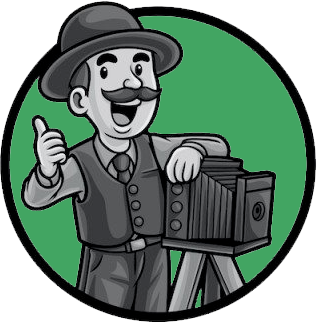
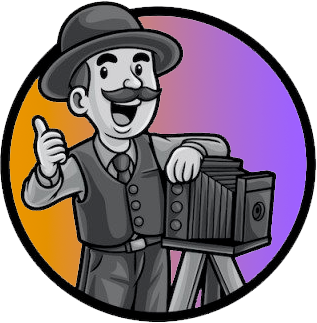
Amelioration UI

diff --git a/front-end/css/style.css b/front-end/css/style.css
@@ -14,7 +14,7 @@
 body {
     width     : 100%;
     box-sizing: border-box;
-    background: #333;
+    background: #F4F6F7;
 }
 
 nav {
@@ -72,25 +72,25 @@ footer {
 }
 
 .navLinks {
-    display         : inline-block;
-    color           : #333;
-    font-weight     : 400;
-    margin-left     : 4rem;
-    padding         : 1rem;
-    background-color: #3F9A59;
-    border-radius   : 2.8rem;
-    color           : #FFF;
-    box-shadow      : rgba(0, 0, 0, 0.35) 0px 5px 15px;
+    display      : inline-block;
+    color        : #333;
+    font-weight  : 400;
+    margin-left  : 4rem;
+    padding      : 1rem;
+    background   : rgb(230, 138, 8);
+    background   : linear-gradient(90deg, rgba(230, 138, 8, 1) 0%, rgba(143, 91, 254, 1) 100%);
+    border-radius: 2.8rem;
+    color        : #FFF;
+    box-shadow   : rgba(0, 0, 0, 0.35) 0px 5px 15px;
 
 }
 
 .navLinks:hover {
-    padding         : 1rem;
-    background-color: #017143;
-    border-radius   : 2.8rem;
-    color           : #FFF;
-    transition      : transform .2s;
-    transform       : scale(1.1)
+    padding      : 1rem;
+    border-radius: 2.8rem;
+    color        : #FFF;
+    transition   : transform .2s;
+    transform    : scale(1.1)
 }
 
 /*HEADER*/
@@ -99,7 +99,7 @@ footer {
 /* CARD*/
 
 .mainContent {
-    padding              : 10em 20em 10em 20em;
+    padding              : 8em 20em 20em 20em;
     display              : grid;
     grid-template-columns: 1fr 1fr 1fr;
     grid-template-rows   : 1fr 1fr;
@@ -110,14 +110,15 @@ footer {
 }
 
 .camArticle {
-    position        : relative;
-    width           : 100%;
-    height          : 100%;
-    border-radius   : 3rem;
-    background-color: #3F9A59;
-    margin-bottom   : 3rem;
-    padding         : 1rem;
-    box-shadow      : rgba(0, 0, 0, 0.35) 0px 5px 15px;
+    position     : relative;
+    width        : 100%;
+    height       : 100%;
+    border-radius: 3rem;
+    background   : rgb(230, 138, 8);
+    background   : linear-gradient(90deg, rgba(230, 138, 8, 1) 0%, rgba(143, 91, 254, 1) 100%);
+    margin-bottom: 3rem;
+    padding      : 1rem;
+    box-shadow   : rgba(0, 0, 0, 0.35) 0px 5px 15px;
 }
 
 .cardContent {
@@ -194,10 +195,11 @@ footer {
 }
 
 .confirm {
-    background-color: #f3e9f1;
-    margin          : 2%;
-    padding         : 2%;
-    border-radius   : 1rem;
+    background   : rgb(230, 138, 8);
+    background   : linear-gradient(90deg, rgba(230, 138, 8, 1) 0%, rgba(143, 91, 254, 1) 100%);
+    margin       : 2%;
+    padding      : 2%;
+    border-radius: 1rem;
 }
 
 /* FORM */
@@ -216,7 +218,8 @@ footer {
 }
 
 .bgc-element {
-    background-color: #3F9A59;
+    background: rgb(230, 138, 8);
+    background: linear-gradient(90deg, rgba(230, 138, 8, 1) 0%, rgba(143, 91, 254, 1) 100%);
 }
 
 .bgc-sizing {

diff --git a/front-end/html/cart.html b/front-end/html/cart.html
@@ -20,7 +20,7 @@
 <body>
     <header class="header">
         <a class="logo" href="../index.html"><img src="../img/orinocam.png" alt="Orinoco Logo"></a>
-        <h1 class="mainTitle">OrinoCam</h1>
+        <h1 class="mainTitle">OrinoCam®</h1>
         <nav class="navBar">
             <a class="navLinks" href="index.html">Accueil</a>
             <a class="navLinks" href="html/cart.html">Votre Panier</a>
@@ -72,7 +72,7 @@
     </main>
 
     <footer class="bgc-element bgc-sizing">
-        <p class="copyright">OrinoCorp.</p>
+        <p class="copyright">OrinoCam®, un site du groupe Orinoco®.</p>
     </footer>
     <script src="https://code.jquery.com/jquery-3.5.1.slim.min.js"
         integrity="sha384-DfXdz2htPH0lsSSs5nCTpuj/zy4C+OGpamoFVy38MVBnE+IbbVYUew+OrCXaRkfj"

diff --git a/front-end/index.html b/front-end/index.html
@@ -18,7 +18,7 @@
 <body>
     <header class="header">
         <a class="logo" href="index.html"><img src="img/orinocam.png" alt="Orinoco Logo"></a>
-        <h1 class="mainTitle">OrinoCam</h1>
+        <h1 class="mainTitle">OrinoCam®</h1>
         <nav class="navBar">
             <a class="navLinks" href="index.html">Accueil</a>
             <a class="navLinks" href="html/cart.html">Votre Panier</a>
@@ -38,7 +38,7 @@
     </main>
 
     <footer class="bgc-element bgc-sizing">
-        <p class="copyright">OrinoCam, un site du groupe Orinoco.</p>
+        <p class="copyright">OrinoCam®, un site du groupe Orinoco®.</p>
     </footer>
 
     <script src="js/view.js"></script>

diff --git a/front-end/html/confirm.html b/front-end/html/confirm.html
@@ -18,7 +18,7 @@
 <body>
     <header class="header">
         <a class="logo" href="../index.html"><img src="../img/orinocam.png" alt="Orinoco Logo"></a>
-        <h1 class="mainTitle">OrinoCam</h1>
+        <h1 class="mainTitle">OrinoCam®</h1>
         <nav class="navBar">
             <a class="navLinks" href="index.html">Accueil</a>
             <a class="navLinks" href="html/cart.html">Votre Panier</a>
@@ -38,7 +38,7 @@
     </main>
     
     <footer class="bgc-element bgc-sizing">
-        <p class="copyright">OrinoCorp.</p>
+        <p class="copyright">OrinoCam®, un site du groupe Orinoco®.</p>
     </footer>
 
     <script src="js/request.js"></script>

diff --git a/front-end/html/products.html b/front-end/html/products.html
@@ -18,7 +18,7 @@
 <body>
     <header class="header">
         <a class="logo" href="../index.html"><img src="../img/orinocam.png" alt="Orinoco Logo"></a>
-        <h1 class="mainTitle">OrinoCam</h1>
+        <h1 class="mainTitle">OrinoCam®</h1>
         <nav class="navBar">
             <a class="navLinks" href="index.html">Accueil</a>
             <a class="navLinks" href="cart.html">Votre Panier</a>
@@ -38,7 +38,7 @@
     </main>
 
     <footer class="bgc-element bgc-sizing">
-        <p class="copyright">OrinoCorp.</p>
+        <p class="copyright">OrinoCam®, un site du groupe Orinoco®.</p>
     </footer>
 
     <script src="js/request.js"></script>
